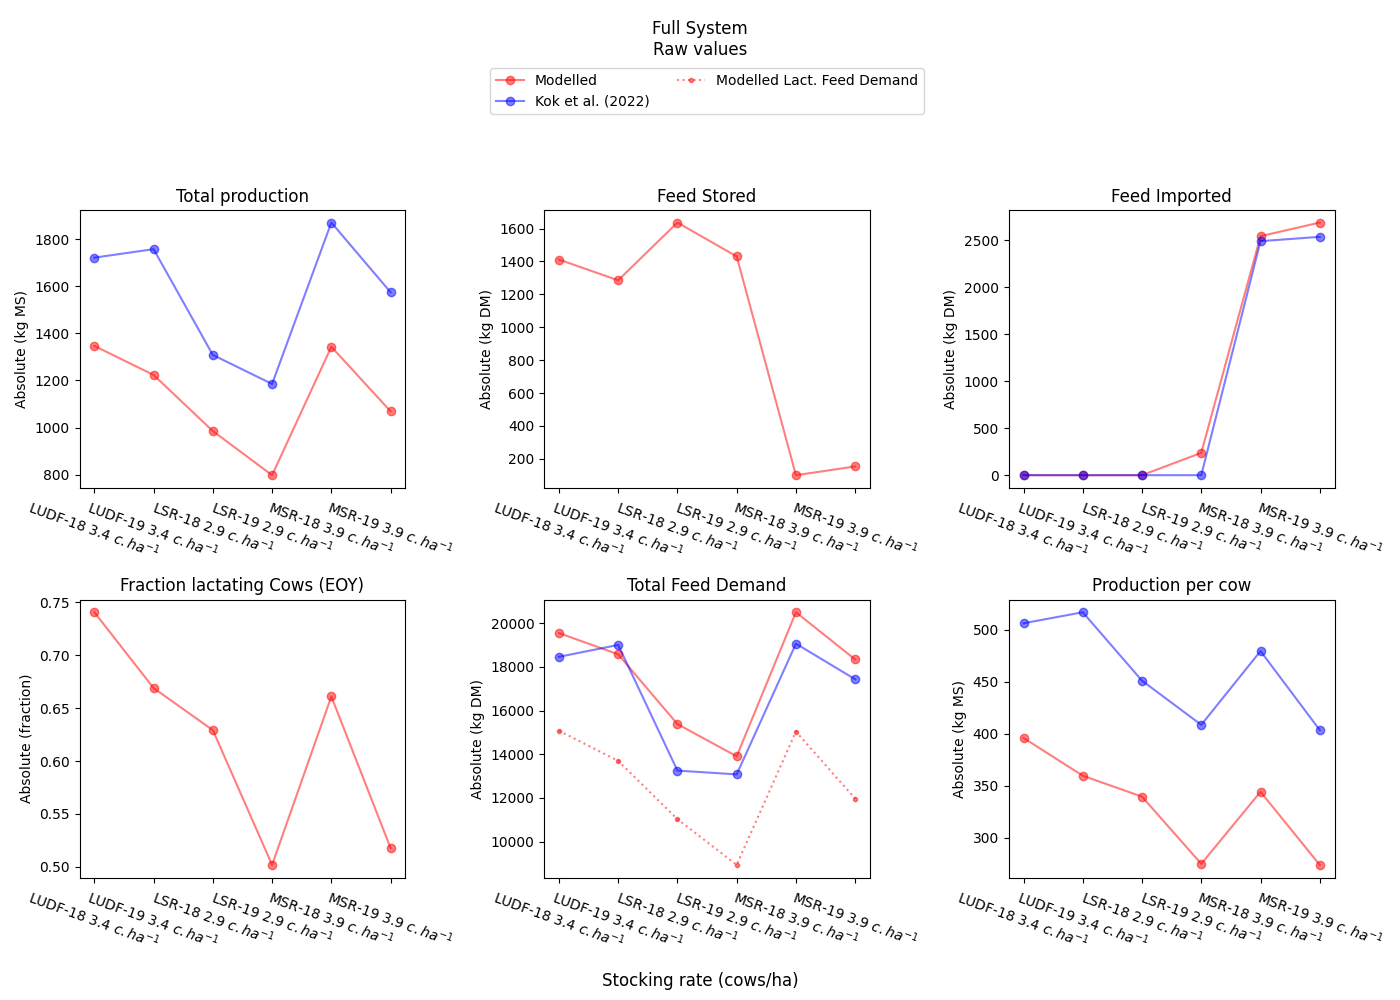
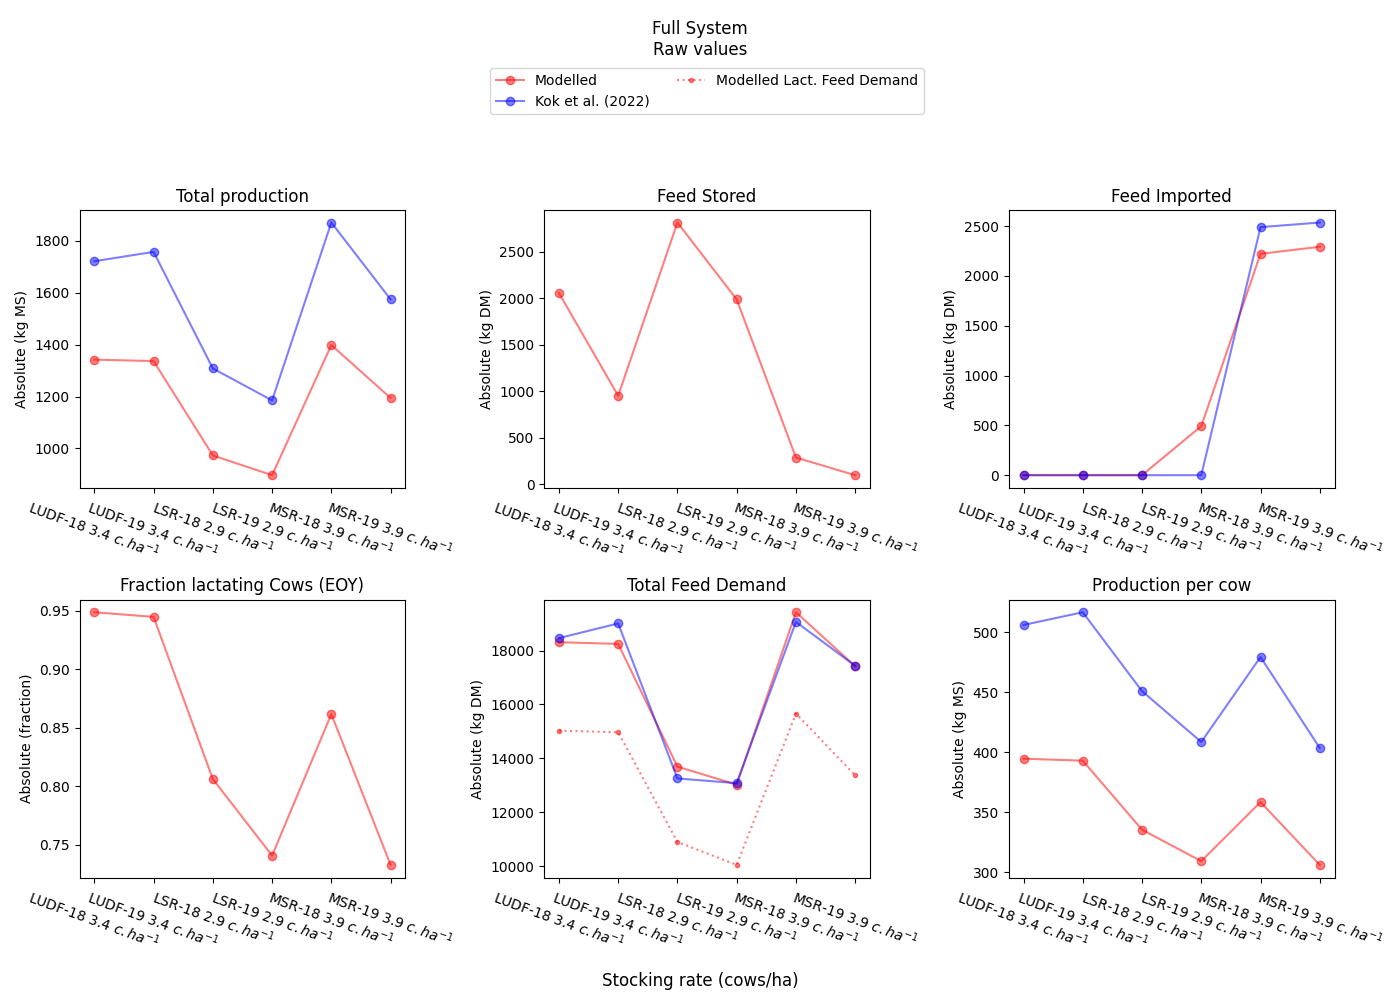
small fix for macdonal_2011

diff --git a/dairy_model_validataion/kok_et_al_2022.py b/dairy_model_validataion/kok_et_al_2022.py
@@ -15,6 +15,7 @@ from pathlib import Path
 from komanawa.simple_farm_model import SimpleDairyModel, DairyModelWithSCScarcity
 from komanawa.simple_farm_model.base_simple_farm_model import month_len
 from komanawa.simple_farm_model.simple_dairy_model import mj_per_kg_dm, monly_ms_prod, dry_cow_feed, lactating_feed
+from komanawa.simple_farm_model.stock_rate_conversion import calc_full_farm_stock_rate
 from op_expenses import get_operating_expenses
 from supporting_script import _plot_outputs, _extract_data
 from pathlib import Path
@@ -156,66 +157,6 @@ def make_data_no_pg_system(explore_plot=False):
     fig.savefig(outdir.joinpath('00_feed_passed_as_supplement.png'))
     fig_money.savefig(outdir.joinpath('00_feed_passed_as_supplement_money.png'))
 
-
-def make_data_not_fixed_system(explore_plot=False):
-    # todo save a cleaned up version of the "explore_plots"
-    # todo add running costs and see net income... super important...
-    # todo the limiting point for feed in these farms are the spring months (prior to the Nov,)  There must be surplus feed here that's not accounted for in the paper...
-    # todo I need higher imported feed to support the spring.
-    base_feed_price = 400 / 1000 / mj_per_kg_dm
-    outdata = pd.DataFrame(index=range(len((stocking_rates))))
-    outdata['year'] = year
-    outdata['farm'] = farm
-    outdata['stocking_rate'] = stocking_rates
-    a = 1
-    b = 10
-    s = 10
-
-    for n in range(1):
-        for i, stock_rate in enumerate(stocking_rates):
-            year0 = year[i]
-            farm0 = farm[i]
-            use_pg = get_pgr(year0, farm0)
-            if n == 0:
-                ifeed_adder = 0
-            else:
-                ifeed_adder = outdata.loc[i, 'last_feed'] * mj_per_kg_dm
-
-            ifeed_per_cow = 300  # todo this works quite well...
-            cs = {'LUDF': 20, 'LSR': 10, 'MSR': 25}
-
-            dm = NoRepsDM(all_months, istate=[0], pg=use_pg,
-                          ifeed=[ifeed_per_cow * stock_rate * mj_per_kg_dm + ifeed_adder],
-                          # ifeed based on 4 rounds of 1500 kg DM/ha
-                          imoney=[0], sup_feed_cost=base_feed_price, product_price=ms_price,
-                          monthly_input=True,
-                          peak_lact_cow_per_ha=stock_rate, ncore_opt=1, logging_level=logging.CRITICAL,
-                          cull_dry_step=None, opt_mode='coarse',
-                          cull_levels=100, dryoff_levels=100,
-                          s=s, a=a, b=b, c=cs[farm0])
-            dm.run_model()
-            if explore_plot:
-                fig, axs = dm.plot_results('feed', 'lactating_cow_fraction', 'cum_feed_import')
-                fig.suptitle(f'{year0} {farm0} {stock_rate} cows/ha')
-                fig, axs = dm.plot_results('feed_replacement', 'feed_dry', 'feed_lactating')
-                fig.suptitle(f'{year0} {farm0} {stock_rate} cows/ha')
-                plt.show()
-            _extract_data(dm, outdata, i, stock_rate)
-    use_sup = total_sup
-    xticks = [f'{f}-{y - 2000} {r}' + ' $c.ha^{-1}$' for y, f, r in
-              zip(np.array(year)[xs], np.array(farm)[xs], stocking_rates[xs])]
-    fig, axs, fig_money, moneyaxs = _plot_outputs(outdata,
-                                                  stocking_rates, use_sup, ms_prod, expect_feed_demand,
-                                                  xs, gross_rev, net_income, opt_expese,
-                                                  study_name='Kok et al. (2022)',
-                                                  rel_lab='LUDF 2018,',
-                                                  xticklabs=xticks,
-                                                  base_x=0,
-                                                  plot_rel=False, plot_money_rel=True)
-    plt.show()
-    pass
-
-
 def make_data_silage_ifeed(explore_plot=False):
     # todo save a cleaned up version of the "explore_plots"
     # todo add running costs and see net income... super important...
@@ -313,21 +254,15 @@ def unmodified_comparison(explore_plot=False):
 
             ifeed = silage_supplement[i] * mj_per_kg_dm + ifeed_adder
 
-            ifeed_based_on_dif = {'LUDF': 1000, 'LSR': 750,
+            ifeed_based_on_dif = {'LUDF': 1000, 'LSR': 650,
                                   'MSR': 1000}  # todo THIS REALLY HELPS THERE MUST BE "PASTURE STORED FEED"
-            cs = {'LUDF': 20, 'LSR': 10, 'MSR': 25}
             if year0 == 2018:
-                cs = {'LUDF': 8, 'LSR': 5, 'MSR': 19}
+                cs = {'LUDF': 4, 'LSR': 1, 'MSR': 19}
             else:
-                cs = {'LUDF': 8, 'LSR': 6, 'MSR': 19}
+                cs = {'LUDF': 8, 'LSR': 3, 'MSR': 19}
 
             # modify stock rate
-            additional_land = .33 * stock_rate / (2.82 / 3.5 * min(3.5, stock_rate))
-            # keynote assume stock rate on support blocks scales with stockrate for lower stocking rate
-            total_stock = stock_rate * 1.33
-            use_stock_rate = total_stock / (1 + additional_land)
-            land_modifyer = 1 / (1 + additional_land)
-            cow_modifyer = 1.33
+            use_stock_rate, land_modifyer, cow_modifyer = calc_full_farm_stock_rate(stock_rate)
             ifeed_in = [ifeed + ifeed_based_on_dif[farm0] * use_stock_rate * mj_per_kg_dm]
             # ifeed_in = [0]
 

diff --git a/dairy_model_validataion/macdonal_2011.py b/dairy_model_validataion/macdonal_2011.py
@@ -17,6 +17,7 @@ import pandas as pd
 from komanawa.simple_farm_model import SimpleDairyModel, DairyModelWithSCScarcity
 from komanawa.simple_farm_model.base_simple_farm_model import month_len
 from komanawa.simple_farm_model.simple_dairy_model import mj_per_kg_dm, monly_ms_prod, dry_cow_feed, lactating_feed
+from komanawa.simple_farm_model.stock_rate_conversion import calc_full_farm_stock_rate
 from supporting_script import _extract_data, _plot_outputs
 from pathlib import Path
 
@@ -142,12 +143,8 @@ def run_farm_model_no_mod(explore_plot=False):
         idx = np.where(stocking_rates == stock_rate)[0][0]
         use_pg = pg_curve * pg_prod[idx]
         use_pg = np.array([u / month_len[m] for u, m in zip(use_pg, all_months)])
-        additional_land = .33 * stock_rate / (2.82 / 3.5 * min(3.5, stock_rate))
-        # keynote assume stock rate on support blocks scales with stockrate for lower stocking rate
-        total_stock = stock_rate * 1.33
-        use_stock_rate = total_stock / (1 + additional_land)
-        land_modifyer = 1 / (1 + additional_land)
-        cow_modifyer = 1.33
+        use_stock_rate, land_modifyer, cow_modifyer = calc_full_farm_stock_rate(stock_rate)
+
         ifeed_in = [silage_consumed[idx] * mj_per_kg_dm + 500 * use_stock_rate * mj_per_kg_dm]
 
         dm = LowerFeedDMWSCS(all_months, istate=[0], pg=use_pg,
@@ -238,12 +235,7 @@ def run_farm_model_no_mod_no_feed_limit(explore_plot=False):
         idx = np.where(stocking_rates == stock_rate)[0][0]
         use_pg = pg_curve * pg_prod[idx]
         use_pg = np.array([u / month_len[m] for u, m in zip(use_pg, all_months)])
-        additional_land = .33 * stock_rate / (2.82 / 3.5 * min(3.5, stock_rate))
-        # keynote assume stock rate on support blocks scales with stockrate for lower stocking rate
-        total_stock = stock_rate * 1.33
-        use_stock_rate = total_stock / (1 + additional_land)
-        land_modifyer = 1 / (1 + additional_land)
-        cow_modifyer = 1.33
+        use_stock_rate, land_modifyer, cow_modifyer = calc_full_farm_stock_rate(stock_rate)
         ifeed_in = [silage_consumed[idx] * mj_per_kg_dm + 500 * use_stock_rate * mj_per_kg_dm]
 
         dm = LowerFeedDMWSCS(all_months, istate=[0], pg=use_pg,

diff --git a/src/komanawa/simple_farm_model/stock_rate_conversion.py b/src/komanawa/simple_farm_model/stock_rate_conversion.py
@@ -1,0 +1,29 @@
+"""
+created matt_dumont 
+on: 10/8/24
+"""
+import numpy as np
+
+
+def calc_full_farm_stock_rate(milk_platform_sr): # todo incorporate this and write up!
+    """
+    calculate the peak cow (peak lactating cow /ha) for a full farm from the milk platform stocking rate.
+
+    :param milk_platform_sr:
+    :return:
+    """
+    cow_modifer = 1.44
+    single_val = True
+    if hasattr(milk_platform_sr, '__iter__'):
+        single_val = False
+    milk_platform_sr = np.atleast_1d(milk_platform_sr)
+    overwinter_stock = 2 / 12 * milk_platform_sr
+    additional_stock = ((cow_modifer - 1) * milk_platform_sr) + overwinter_stock
+    additional_land = additional_stock / (8.5 / 5 * milk_platform_sr)
+    total_stock = milk_platform_sr * cow_modifer
+    use_stock_rate = milk_platform_sr / (1 + additional_land)
+    use_stock_rate = use_stock_rate.round(3)
+    land_modifier = 1 / (1 + additional_land)
+    if single_val:
+        return use_stock_rate[0], land_modifier[0], cow_modifer
+    return use_stock_rate, land_modifier, np.full_like(milk_platform_sr, cow_modifer)
